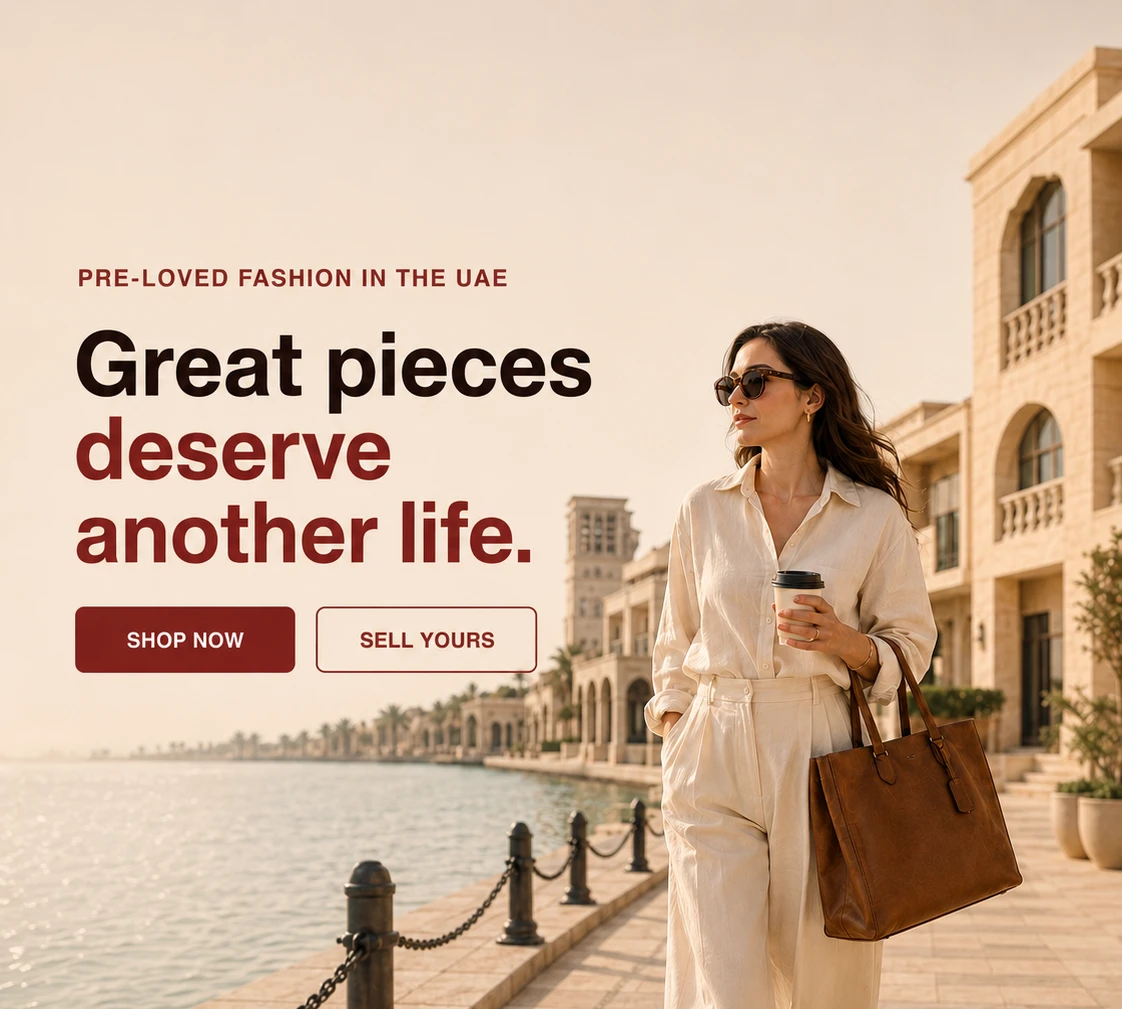
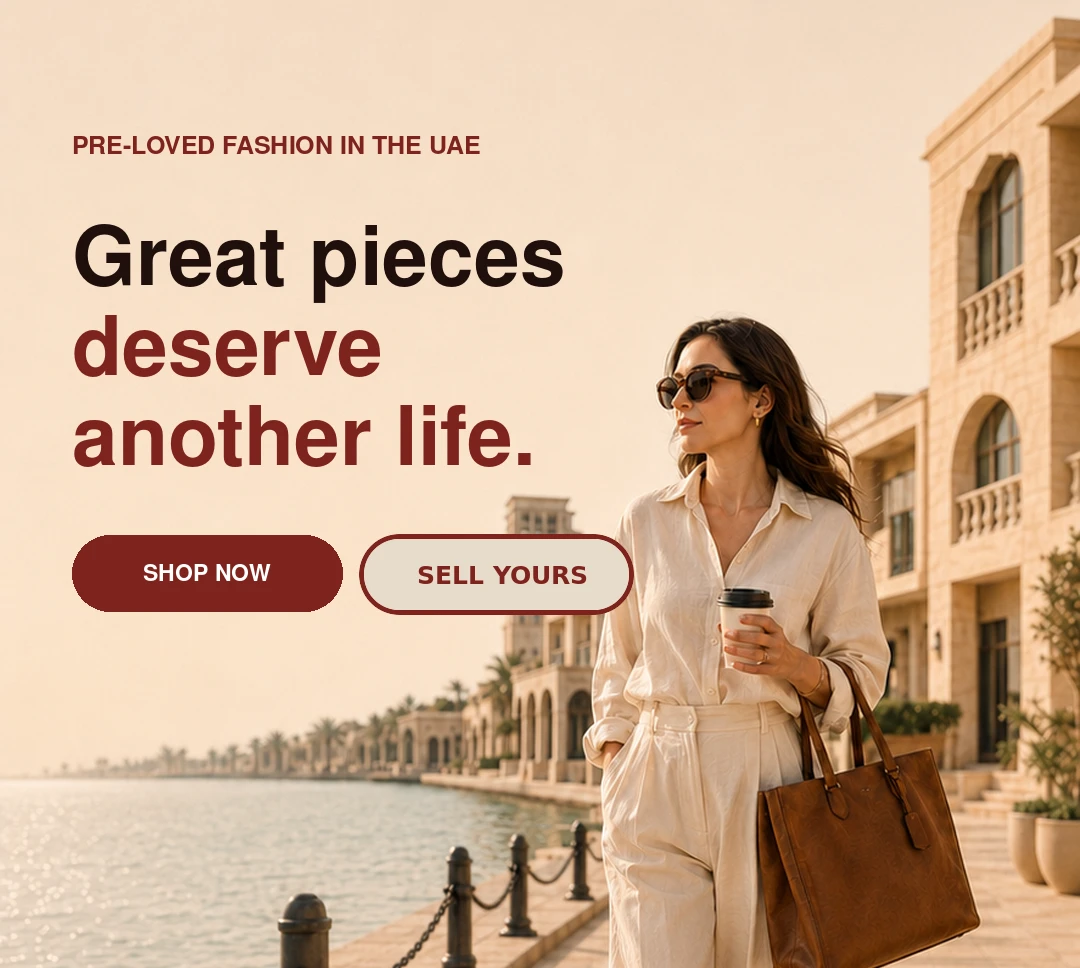
Hero v2: pre-composed images at exact target ratios, no crop math needed
Owner regenerated the hero artwork at the exact aspect ratios the last
fix computed as safe (2400x1000 = 2.4:1 desktop/tablet, 1080x968 = 1.12:1
mobile), so the display container now just matches each file's native
size directly — no more deliberately-mismatched aspect ratio to force a
safe crop, since these files don't need cropping at all.

Button hit-target coordinates re-measured against the new files (same
PIL + connected-components approach as before) since button position
shifted slightly in the new artwork.

Verified in-browser at 375px and 2200px: both buttons clickable and
correctly routed, full page width, compact height, nothing cropped.

diff --git a/apps/marketplace/src/components/HeroBanner.tsx b/apps/marketplace/src/components/HeroBanner.tsx
@@ -5,36 +5,28 @@ import { useStack } from "../nav/stack";
 
 const LANDSCAPE_URL = apiClient.resolveAssetUrl("/assets/hero/hero-landscape.webp");
 const PORTRAIT_URL = apiClient.resolveAssetUrl("/assets/hero/hero-portrait.webp");
-// Deliberately WIDER than the source image's own ratio (1708:921 = 1.85).
-// The container is full page width (see `wrap`), and the source image is
-// tall enough that "full width, uncropped" makes it dominate the whole
-// viewport on a wide monitor. This ratio (2.4) tells resizeMode "cover"
-// to crop — but only the empty sky/ground margins above and below the
-// text and buttons, never the content itself. Verified safe: the baked
-// content spans y 17%-79.4% of the source image; at 2.4 the visible
-// window is the center 77% (y ~11.5%-88.5%), which fully contains it
-// with margin to spare on both sides.
-const LANDSCAPE_ASPECT_RATIO = 2.4;
-// Cropped below the tote bag to remove the lower legs/feet — the full
-// head-to-sandals portrait made the mobile hero too tall.
-const PORTRAIT_ASPECT_RATIO = 1122 / 1009;
+// v2 images were generated pre-composed at these exact ratios (2400x1000
+// and 1080x968) — unlike the v1 assets, no independent crop ratio is
+// needed here; the container just matches the file's own dimensions, so
+// resizeMode "cover" never has to trim anything.
+const LANDSCAPE_ASPECT_RATIO = 2400 / 1000;
+const PORTRAIT_ASPECT_RATIO = 1080 / 968;
 
 // The approved hero images have their headline and buttons baked in as
 // artwork — nothing is rendered on top except two invisible tap targets,
 // positioned as percentages of the image's own box (so they track
 // correctly no matter what size the image renders at). Coordinates were
 // measured directly from the source files' button-fill pixels, not
-// eyeballed, and are only valid for these exact two images at these
-// exact display aspect ratios — if either changes, these must be
-// re-measured (see scripts used in dev: PIL + connected-components on
-// the button fill color).
+// eyeballed, and are only valid for these exact two images — if the
+// artwork changes, these must be re-measured (see scripts used in dev:
+// PIL + connected-components on the button fill color).
 const LANDSCAPE_BUTTONS = {
-  shopNow: { left: "6.3%", top: "78.2%", width: "15.4%", height: "9.9%" },
-  sellYours: { left: "23.2%", top: "78.2%", width: "15.6%", height: "9.9%" },
+  shopNow: { left: "6.0%", top: "78.5%", width: "14.8%", height: "9.2%" },
+  sellYours: { left: "21.8%", top: "78.5%", width: "15.0%", height: "9.1%" },
 } as const;
 const PORTRAIT_BUTTONS = {
-  shopNow: { left: "6.8%", top: "60.2%", width: "19.4%", height: "6.3%" },
-  sellYours: { left: "28.2%", top: "60.2%", width: "19.6%", height: "6.3%" },
+  shopNow: { left: "6.7%", top: "55.3%", width: "25.0%", height: "7.8%" },
+  sellYours: { left: "33.2%", top: "55.3%", width: "25.4%", height: "7.7%" },
 } as const;
 
 export function HeroBanner() {
